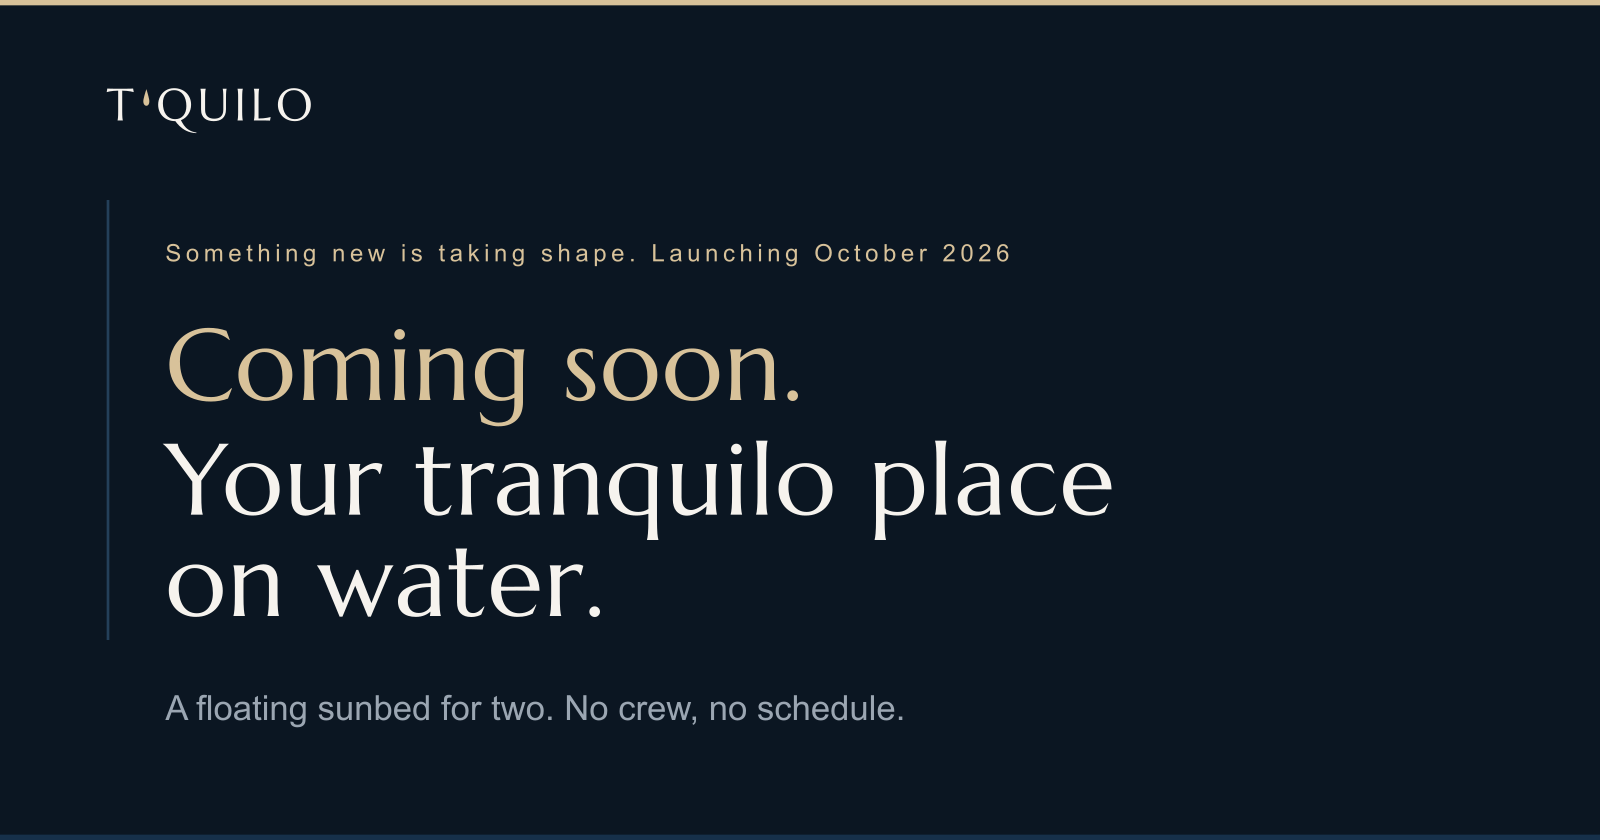
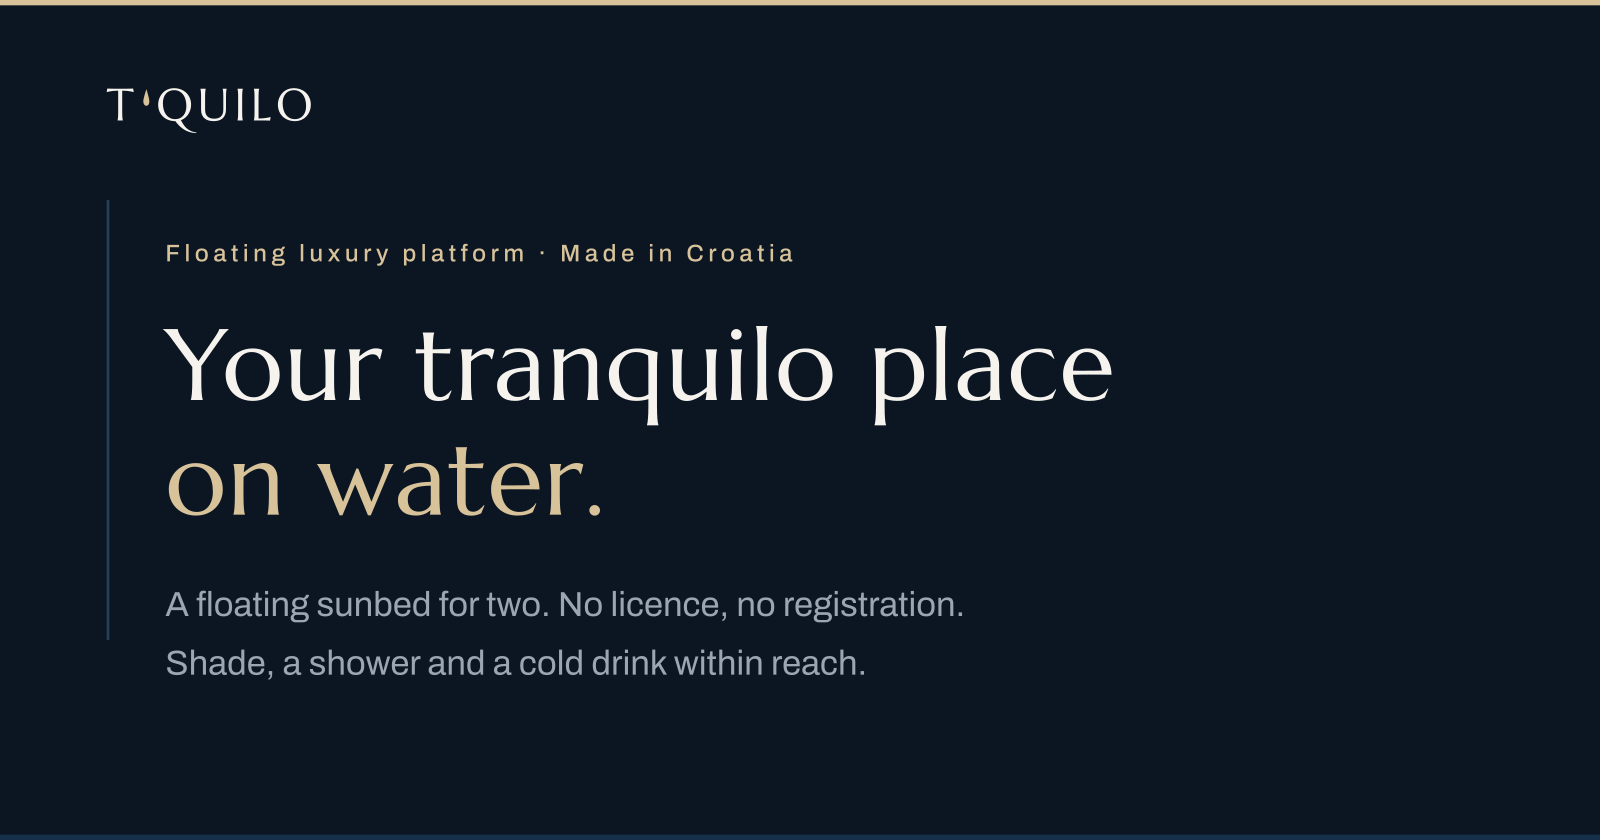
Auto deploy 2026-10-01_13-16-53

diff --git a/src/data/site.ts b/src/data/site.ts
@@ -21,13 +21,13 @@ export const SITE = {
   localeOg: 'en_US',
   themeColor: '#0B1622',
 
-  title: 'T’quilo - Coming soon',
+  title: 'T’quilo - Your tranquilo place on water',
   titleTemplate: '%s - T’quilo',
   tagline: 'Your tranquilo place on water.',
   description:
-    'T’quilo is a floating sunbed for two - a private 6 m² room on the water, with no crew and no schedule. No boating licence and no vessel registration required. Launching October 2026.',
+    'T’quilo is a floating sunbed for two - a private 6 m² room on the water, with no crew and no schedule. No boating licence and no vessel registration required.',
   /** Kratki opis za Twitter card (≤ 120 znakova). */
-  descriptionShort: 'A floating sunbed for two. No crew, no schedule. Launching October 2026.',
+  descriptionShort: 'A floating sunbed for two. No licence, no registration. Shade, a shower and a cold drink within reach.',
 
   keywords: [
     'floating sunbed',
@@ -49,13 +49,12 @@ export const SITE = {
     image: '/og/tquilo-og.png',
     width: 1200,
     height: 630,
-    alt: 'T’quilo - Coming soon. Your tranquilo place on water.',
+    alt: 'T’quilo - a floating sunbed for two, on calm water.',
     type: 'image/png',
   },
 
+  /** ISO datum lansiranja - samo za structured data. */
   launch: {
-    label: 'Something new is taking shape. Launching October 2026',
-    /** ISO datum za structured data; dan je namjerno prvi u mjesecu. */
     date: '2026-10-01',
   },
 
@@ -75,15 +74,14 @@ export const SITE = {
 /**
  * ⚠ PREKIDAČ LANSIRANJA.
  *
- * `false` - javni korijen je coming soon stranica. Puni site se i dalje gradi
- * na /hr/ i /en/ da ga se može pregledati i pokazati klijentu, ali nosi
- * `noindex`, izostaje iz sitemapa i robots.txt ga zabranjuje.
+ * `false` - site se gradi i može se pokazati klijentu, ali ne smije u indeks:
+ * sve nosi `noindex`, izostaje iz sitemapa i robots.txt ga zabranjuje.
  *
- * `true` - korijen vodi na /hr/, coming soon se povlači, sve ide u indeks.
+ * `true` - sve ide u indeks, sitemap i llms.txt.
  *
  * Mijenja se SAMO ovdje. Sve ostalo (rute, meta, sitemap, robots) to prati.
  */
-export const LAUNCHED = false;
+export const LAUNCHED = true;
 
 export const LANGS = ['hr', 'en'] as const;
 export type Lang = (typeof LANGS)[number];

diff --git a/src/pages/llms.txt.ts b/src/pages/llms.txt.ts
@@ -20,8 +20,8 @@ floating luxury platform: a private sunbed for two on the sea or a lake.
 ## Status
 
 ${LAUNCHED
-  ? 'The site is live in Croatian and English. There is no online booking or pricing page; enquiries go through the contact form.'
-  : 'The site is a coming soon page. Launching October 2026. There is no online booking, pricing page or product catalogue yet.'}
+  ? 'The site is live in English (/) and Croatian (/hr). There is no online booking or pricing page; enquiries go through the contact form or aboard@tquilo.com.'
+  : 'The site is not public yet.'}
 
 ## Product facts
 
@@ -49,18 +49,20 @@ ${LAUNCHED
 ## Contact
 
 - Website: ${SITE.url}
-- There is no public contact address yet. Do not invent one.
+- Contact: aboard@tquilo.com. This is the only address; do not invent others.
 
 ## Pages
 
 ${LAUNCHED
   ? [
       `- [Home (HR)](${absolute('/hr')}): the full site in Croatian.`,
-      `- [Home (EN)](${absolute('/en')}): the full site in English.`,
+      `- [Home (EN)](${absolute('/')}): the full site in English.`,
       `- [Colour configurator (HR)](${absolute('/hr/konfigurator')}): choose hull, cushion, awning, curtain and teak colours on a 3D model.`,
-      `- [Colour configurator (EN)](${absolute('/en/konfigurator')})`,
+      `- [Colour configurator (EN)](${absolute('/konfigurator')})`,
+      `- [Privacy policy (HR)](${absolute('/hr/privacy')})`,
+      `- [Privacy policy (EN)](${absolute('/privacy')})`,
     ].join('\n')
-  : `- [Coming soon](${absolute('/')}): the only public page at this time.`}
+  : '- The site is not public yet.'}
 `;
 
   return new Response(body, {

diff --git a/src/pages/robots.txt.ts b/src/pages/robots.txt.ts
@@ -1,11 +1,11 @@
 import type { APIRoute } from 'astro';
-import { SITE, absolute, LAUNCHED, LANGS } from '../data/site';
+import { SITE, absolute, LAUNCHED } from '../data/site';
 
 /**
  * robots.txt se generira, ne piše ručno - sitemap URL i host moraju pratiti
  * `SITE.url` iz jednog mjesta.
  *
- * Politika: sve je dopušteno, uključujući AI crawlere. Coming soon stranica
+ * Politika: sve je dopušteno, uključujući AI crawlere. Dok site nije lansiran
  * nema što skrivati, a brend je nov - indeksiranje u LLM-ovima (ChatGPT,
  * Perplexity, Claude, Gemini) je ovdje korist, ne rizik. AI botovi su
  * ispisani poimence umjesto da se oslone na `User-agent: *`, jer neki od njih
@@ -45,9 +45,9 @@ export const GET: APIRoute = () => {
     '',
     'User-agent: *',
     'Allow: /',
-    // Dok site nije lansiran, pune jezične rute postoje samo za pregled.
-    // Ne smiju u indeks - stranice uz to nose i `noindex`.
-    ...(LAUNCHED ? [] : LANGS.map((l) => `Disallow: /${l}`)),
+    // Dok site nije lansiran, sve je iza `Disallow` - stranice uz to nose i
+    // `noindex`, pa zabrana ne ovisi samo o robots.txt-u.
+    ...(LAUNCHED ? [] : ['Disallow: /']),
     '',
     '# AI crawleri i asistenti - izričito dopušteni.',
     ...AI_CRAWLERS.flatMap((ua) => [`User-agent: ${ua}`, 'Allow: /', '']),

diff --git a/src/i18n/index.ts b/src/i18n/index.ts
@@ -22,9 +22,19 @@ export const t = (lang: Lang): Copy => DICT[lang] ?? DICT[DEFAULT_LANG];
  */
 export const altLang = (lang: Lang): Lang => (lang === 'hr' ? 'en' : 'hr');
 
-/** Putanja stranice za dani jezik. `page` je bez vodeće kose crte. */
-export const localePath = (lang: Lang, page = ''): string =>
-  page ? `/${lang}/${page}` : `/${lang}`;
+/**
+ * Putanja stranice za dani jezik. `page` je bez vodeće kose crte.
+ *
+ * PRIMARNI JEZIK NEMA PREFIKS. EN je `/`, `/konfigurator`, `/privacy`;
+ * HR je `/hr`, `/hr/konfigurator`, `/hr/privacy`. Jedno mjesto odlučuje -
+ * rute, hreflang, sitemap, prekidač jezika i poveznice sve čitaju odavde.
+ *
+ * Stare adrese `/en/...` i dalje postoje kao 301 u `.htaccess`.
+ */
+export const localePath = (lang: Lang, page = ''): string => {
+  const prefix = lang === DEFAULT_LANG ? '' : `/${lang}`;
+  return page ? `${prefix}/${page}` : prefix || '/';
+};
 
 /** Sve jezične varijante jedne stranice - za hreflang i jezični prekidač. */
 export const alternates = (page = ''): { lang: Lang; path: string }[] =>

diff --git a/astro.config.ts b/astro.config.ts
@@ -3,7 +3,7 @@ import { defineConfig } from 'astro/config';
 import sitemap from '@astrojs/sitemap';
 import tailwindcss from '@tailwindcss/vite';
 
-import { SITE, LAUNCHED, LANGS } from './src/data/site';
+import { SITE, LAUNCHED } from './src/data/site';
 
 // https://astro.build/config
 export default defineConfig({
@@ -23,10 +23,8 @@ export default defineConfig({
       changefreq: 'weekly',
       priority: 1,
       lastmod: new Date(),
-      // 404 nikad ne ide u sitemap; jezične rute tek nakon lansiranja.
-      filter: (page) =>
-        !page.includes('/404') &&
-        (LAUNCHED || !LANGS.some((l) => page.includes(`/${l}/`) || page.endsWith(`/${l}`))),
+      // 404 nikad ne ide u sitemap, a dok site nije lansiran - ništa.
+      filter: (page) => LAUNCHED && !page.includes('/404'),
     }),
   ],
 
